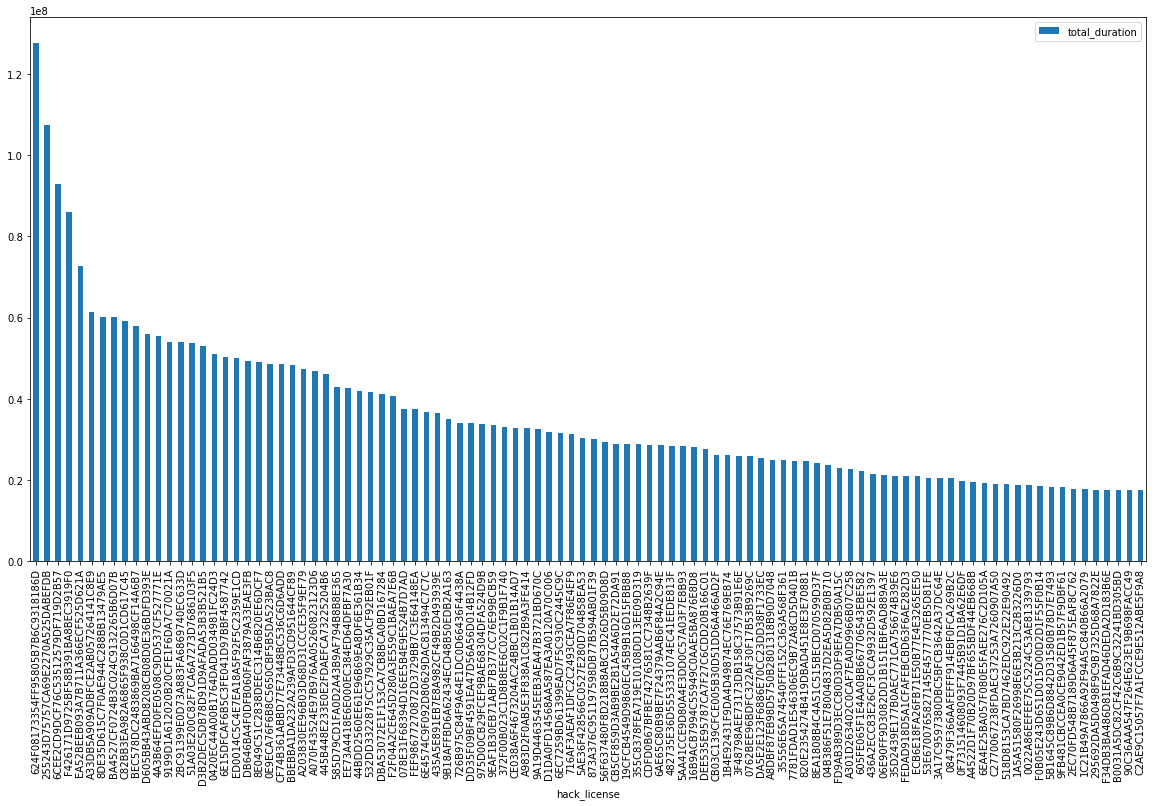
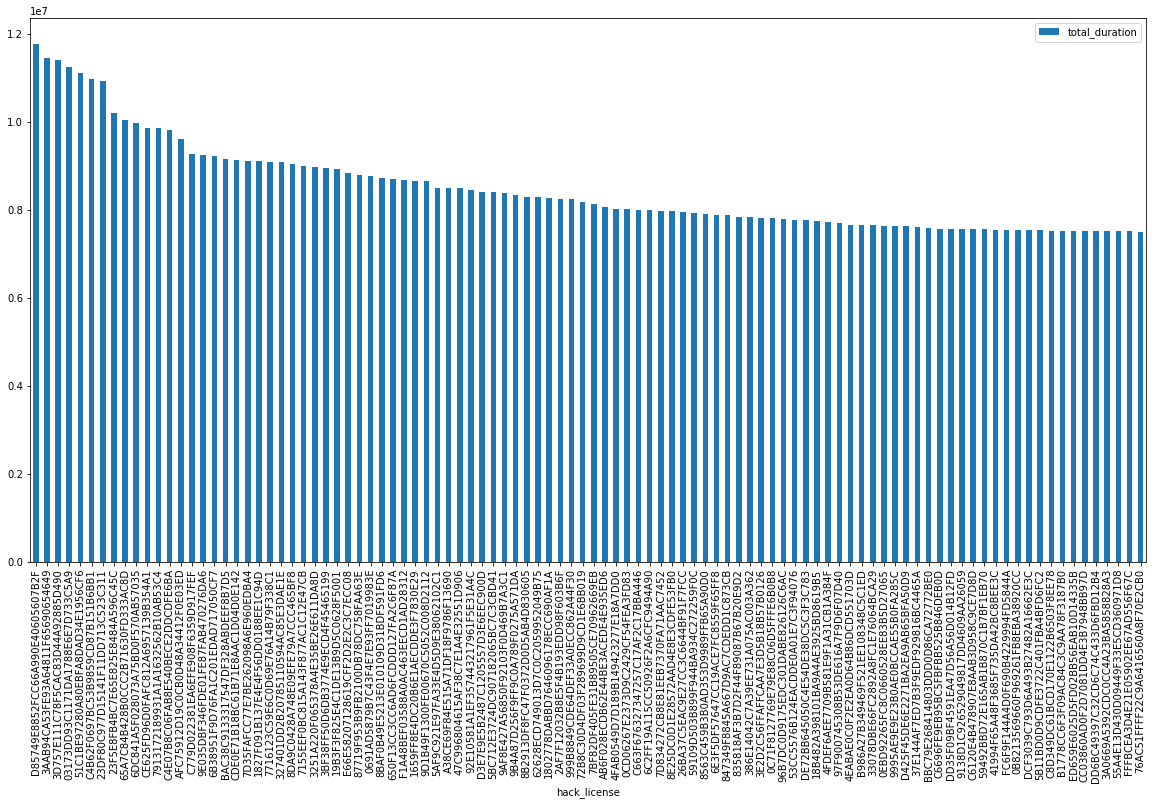
Progress on README, added efficiencies to analysis

diff --git a/README.md b/README.md
@@ -6,6 +6,20 @@ YellowSpark is a project for a Big Data Analytics class at HES-SO Master. The pr
 
 We will also use boundaries for the NYC boroughs available [here](https://nycdatastables.s3.amazonaws.com/2013-08-19T18:15:35.172Z/nyc-borough-boundaries-polygon.geojson) as GeoJSON data.
 
+![](assets/heatmap.png)
+
+## Downloading the data
+
+You can download all the necessary data using `wget`.
+
+```sh
+wget https://nycdatastables.s3.amazonaws.com/2013-08-19T18:15:35.172Z/nyc-borough-boundaries-polygon.geojson
+wget https://archive.org/download/nycTaxiTripData2013/trip_data.7z
+wget https://archive.org/download/nycTaxiTripData2013/trip_fare.7z
+```
+
+Then you can extract the `.7z` files to get the 12 files contained in each of them.
+
 ## Dataset description
 
 The dataset consists of New York City taxi rides data from the year 2013. It is separated by month. For each month, two files are available: the `trip_data` and the `trip_fare`. The two files contains the exact same rides but not the same set of columns. There are duplicated columns between the files that will use to join them. An explanation of the story behind the retrieval of this dataset can be found [here](https://chriswhong.com/open-data/foil_nyc_taxi/).
@@ -85,7 +99,7 @@ We then uploaded the 24 files in a AWS S3 bucket in order to run the processing 
 
 We added some calculated features to our dataset as well. First of all, we don't like ["retard units"](https://en.wikipedia.org/wiki/Imperial_units) so we added a `trip_distance_km` column to have the distance converted to kilometers. Then, we added the `average_speed_kmh` computed from `trip_time_in_secs` and `trip_distance_km`. The speed will used for one of our analysis as well as for filtering out bad data.
 
-Then, we used the boroughs boundaries we had at our disposal and the pickup/dropoff longitude/latitude of the dataset to add `pickup_borough` and `dropoff_borough`. These two columns will also be used for filtering out bad data and one of our analysis.
+Then, we used the boroughs boundaries we had at our disposal and the pickup/dropoff longitude/latitude of the dataset to add `pickup_borough` and `dropoff_borough`. These two columns will also be used for filtering out bad data and one of our analysis. This is done using ESRI Geometry and is extracted from the project PDF.
 
 Finally, for the fares part, we added `taxi_revenue` which is the sum of the fare and the tip for a ride and as such it computes the amount that goes in the driver's pocket for the ride.
 
@@ -140,6 +154,8 @@ Finally, we used the `great_circle_distance_km` column we computed to remove all
 
 In the end, our full year dataset with the data cleaning applied contains 165'163'063 rides. The final cleaned dataset is saved as Parquet on S3 to be later used by our other programs (more on that later).
 
+We should actually spend even more time thinking about data cleaning, as there are a lot of strange rides in the dataset, but it would require a lot of time to filter out those rides as it needs manual oversight and research for these behaviors.
+
 ## Analysis questions
 
 ### Data analysis
@@ -158,20 +174,19 @@ In the plot below, we display the plot of the number of rides per rate code, we 
 
 ![](assets/rate_code_count_log.png)
 
-The data is the following:
+The number of rides is the following:
 
 | rate_code | count     |
 | --------- | --------- |
-| 0         | 25540     |
-| 1         | 162642242 |
-| 2         | 2886818   |
-| 3         | 20635     |
-| 4         | 72013     |
-| 6         | 1683      |
-| 7         | 28        |
-| 8         | 4         |
+| 0         | 25118     |
+| 1         | 162261262 |
+| 2         | 2798053   |
+| 3         | 9389      |
+| 4         | 68387     |
+| 6         | 654       |
+| 7         | 22        |
+| 8         | 2         |
 | 9         | 13        |
-| 10        | 1         |
 | 15        | 1         |
 | 17        | 1         |
 | 28        | 6         |
@@ -183,196 +198,126 @@ The data is the following:
 | 210       | 144       |
 | 221       | 1         |
 
-#### Boroughs analysis
+#### Boroughs analysis by pairs of boroughs
 
-We ran the analysis by the borough of the pickup, dropoff and then by the pickup-dropoff pairs of boroughs.
+##### Number of rides
 
-##### Pickup boroughs
+In the maps below, we can see the number of rides **for the whole year** between pairs of boroughs, we noticed that the majority of the rides are inside Manhattan, or eventually only departing from Manhattan (airports are outside Manhattan). Staten Island is the most remote borough and as such it contains the least amount of rides.
 
-##### Dropoff boroughs
+![](assets/maps1.png)
+![](assets/maps2.png)
+![](assets/maps3.png)
+![](assets/maps4.png)
+![](assets/maps5.png)
 
-##### Pairs of boroughs
+##### Average tip
+
+Above, we see that Staten Island has the least rides because it's really far from the rest, but they got the back of their drivers by providing the most tips on average to compensate for the long ride. This can also be a factor of the price of the ride. In general, trips starting in Bronx amount to the smallest average tips, this may be correlated to the the fact that people are in general poorer in the Bronx.
+
+![](assets/pairs_tips.png)
 
 ##### Wait times by last borough
+
+We sessionised the rides of every taxi driver in order to find the wait time between two rides. By computing the averages and displaying them, we can have an idea of where drivers should wait to find a new ride. We see that if you end in Manhattan, you will find a new ride in less that 10 minutes more or less. The worst borough to end in is Staten Island, as it will take more or less 50 minutes to find a new ride, because it will often involve going back to Manhattan before finding one.
+
+![](assets/borough_wait.png)
 
 #### Dates and time analysis
 
 ##### Number of rides
 
+By displaying the number of rides per day of year, we notice a repeating pattern, with an increase over perhaps a week and then it goes back then at the end of that. We can also see that we have way less rides in an area a bit after the middle of the year. We will dive into this with the next graphs.
+
+![](assets/year_rides_count.png)
+
+By looking at the number of rides per month, we see a reflection of the dip in rides, it is located in August. We see a general trend of taking less rides in the summer months.
+
+![](assets/months_rides_count.png)
+
+As far as the week trend we noticed earlier, it is reflected in the number of rides per week day, we see an increase in the number of rides on Friday and Saturday (6 and 7), so the trend is over a week but with weeks starting on Sunday.
+
+![](assets/day_rides_count.png)
+
+Finally, we can look at the number of rides by hour of the day. People tend to take a cab more in the evening to go out and "less" during the day, we can see that of course during the day it decrease but there are still more or less 2'000'000 rides taking place around 5am during the year. NYC is the city that never sleeps.
+
+![](assets/hour_rides_count.png)
+
 ##### Average tip amount
 
-##### Average revenue
+But hopefully the drivers for these 5am rides will be rewarded with generous tips? Well yes…at least people taking cabs during the night show their gratitude to the drivers.
 
-##### Average trip duration
-
-##### Average distance
+![](assets/hour_rides_tips.png)
 
 #### Top drivers
 
-We found 42750 unique drivers in the dataset (unique hack licenses).
+We found 42528 unique drivers in the dataset (unique hack licenses), in this section we will look at the evolution of the 100 best drivers in different metrics.
 
 ##### Most revenue
 
+We notice a slowing decrease in the revenue per driver in the top 100. The top driver in terms of revenue has accumulated 230'000 $ in one year.
+
 ![](assets/driver_total_revenue.png)
 
-| hack_license                     | total_revenue |
-| -------------------------------- | ------------- |
-| 1EDF99EE9DAC182027330EF48828B54A | 232833.64     |
-| D85749E8852FCC66A990E40605607B2F | 217306.57     |
-| 3AAB94CA53FE93A64811F65690654649 | 203246.73     |
-| 51C1BE97280A80EBFA8DAD34E1956CF6 | 198731.73     |
-| 23DF80C977D15141F11DD713C523C311 | 193650.41     |
-| 3D757E111C78F5CAC83D44A92885D490 | 191687.20     |
-| C4B62F0697BC53B9859CD87B151B6BB1 | 186191.71     |
-| 23F5E8FB4BC7E65E825E8484A596C45C | 180852.82     |
-| AFC75912D19C0CB0D48A34412F0E03ED | 179400.75     |
-| 03173DD93C1171DA1788E6E7D733C5A9 | 178889.01     |
-| 6DC841A5F028073A75BD0F570AB57035 | 177695.73     |
-| C4E07B8C06FAB8E540BECE2DDCDFE6BA | 175640.29     |
-| CE625FD96D0FAFC812A6957139B354A1 | 170847.82     |
-| 65A7C84B428B0CCC2B71630FD333AC8D | 169315.45     |
-| 3251A220F065378A4E35BE26E611DA8D | 167144.60     |
-| C779D022381EA6EFE908F6359D917FEF | 166976.32     |
-| 9D1B49F1300FE00670C5052C008D2112 | 166937.46     |
-| E66E58207128619CFF2D2E2C3C7ECC08 | 164550.29     |
-| 7716123C59E6C0D69E76A14B79F338C1 | 161080.20     |
-| 7913172189931A1A1632562B10AB53C4 | 160795.84     |
-
-##### Most tips
-
-![](assets/driver_total_tips.png)
-
-| hack_license                     | total_tips |
-| -------------------------------- | ---------- |
-| D85749E8852FCC66A990E40605607B2F | 20951.57   |
-| 51C1BE97280A80EBFA8DAD34E1956CF6 | 20562.23   |
-| 3AAB94CA53FE93A64811F65690654649 | 20341.73   |
-| AFC75912D19C0CB0D48A34412F0E03ED | 19090.75   |
-| 23DF80C977D15141F11DD713C523C311 | 18408.41   |
-| 23F5E8FB4BC7E65E825E8484A596C45C | 17963.82   |
-| C4E07B8C06FAB8E540BECE2DDCDFE6BA | 17950.29   |
-| C4B62F0697BC53B9859CD87B151B6BB1 | 17876.11   |
-| 3D757E111C78F5CAC83D44A92885D490 | 17715.70   |
-| 65A7C84B428B0CCC2B71630FD333AC8D | 17489.97   |
-| 6DC841A5F028073A75BD0F570AB57035 | 16947.73   |
-| 3251A220F065378A4E35BE26E611DA8D | 16692.10   |
-| CE625FD96D0FAFC812A6957139B354A1 | 16171.82   |
-| 9D1B49F1300FE00670C5052C008D2112 | 16126.96   |
-| 7716123C59E6C0D69E76A14B79F338C1 | 16002.70   |
-| 92E10581A1EF357443217961F5E31A4C | 15990.62   |
-| CDE0E71B18BC61B71E8AAC1D04D0E142 | 15900.56   |
-| 6C2FF19A115CC50926F2A6CFC9494A90 | 15849.58   |
-| 7913172189931A1A1632562B10AB53C4 | 15808.84   |
-| C779D022381EA6EFE908F6359D917FEF | 15693.82   |
-
 ##### Most distance
+
+We notice a less slowing decrease in the distance per drivers in the top 100. The top driver in terms of distance has driven for 77'000 km in one year.
 
 ![](assets/driver_total_distance.png)
 
-| hack_license                     | total_distance_km |
-| -------------------------------- | ----------------- |
-| D85749E8852FCC66A990E40605607B2F | 76392.102840      |
-| 3AAB94CA53FE93A64811F65690654649 | 69162.834906      |
-| 8C1D318CCC75B91ACBFC789715922449 | 67259.307554      |
-| 51C1BE97280A80EBFA8DAD34E1956CF6 | 65834.848533      |
-| AFC75912D19C0CB0D48A34412F0E03ED | 65127.897658      |
-| 23DF80C977D15141F11DD713C523C311 | 62359.832858      |
-| 23F5E8FB4BC7E65E825E8484A596C45C | 62332.055650      |
-| 6C2FF19A115CC50926F2A6CFC9494A90 | 62319.534984      |
-| 6DC841A5F028073A75BD0F570AB57035 | 62190.787784      |
-| C4B62F0697BC53B9859CD87B151B6BB1 | 62084.474784      |
-| 970978A9CF1C59F8DC462176E305EFCD | 62042.519290      |
-| 3251A220F065378A4E35BE26E611DA8D | 61513.464859      |
-| 3D757E111C78F5CAC83D44A92885D490 | 61237.961944      |
-| 5114DF85775775ED4F53235D8478E80B | 60927.954780      |
-| 9D1B49F1300FE00670C5052C008D2112 | 60924.092364      |
-| C4E07B8C06FAB8E540BECE2DDCDFE6BA | 59159.499334      |
-| C779D022381EA6EFE908F6359D917FEF | 58413.248376      |
-| 5305DE3681B59EC2CD720C3DD8CBFFBC | 57366.469266      |
-| E66E58207128619CFF2D2E2C3C7ECC08 | 56977.234294      |
-| 1E94B13BB698BC3C98178429C45FDEED | 56808.253594      |
-
-##### Most rides
-
-![](assets/driver_total_count.png)
-
-| hack_license                     | count |
-| -------------------------------- | ----- |
-| 51C1BE97280A80EBFA8DAD34E1956CF6 | 17119 |
-| D85749E8852FCC66A990E40605607B2F | 16454 |
-| 3D757E111C78F5CAC83D44A92885D490 | 15950 |
-| 23DF80C977D15141F11DD713C523C311 | 15946 |
-| 03173DD93C1171DA1788E6E7D733C5A9 | 15720 |
-| 3AAB94CA53FE93A64811F65690654649 | 15033 |
-| CE625FD96D0FAFC812A6957139B354A1 | 14298 |
-| 23F5E8FB4BC7E65E825E8484A596C45C | 13953 |
-| C4B62F0697BC53B9859CD87B151B6BB1 | 13859 |
-| BAC38C9133317547DF328ABDEEF8B7D5 | 13781 |
-| 65A7C84B428B0CCC2B71630FD333AC8D | 13575 |
-| 9E035DBF346FDE01FE87FAB470276DA6 | 13314 |
-| C4E07B8C06FAB8E540BECE2DDCDFE6BA | 13309 |
-| 6DC841A5F028073A75BD0F570AB57035 | 13259 |
-| E66E58207128619CFF2D2E2C3C7ECC08 | 13162 |
-| 1802778DABBD7646096178ECC690AF1A | 13125 |
-| 9D1B49F1300FE00670C5052C008D2112 | 12991 |
-| 7913172189931A1A1632562B10AB53C4 | 12837 |
-| 3578782ABD6492CEB927B2A8EBCF1402 | 12745 |
-| 6B38951F9D76FA1C201EDAD717050CF7 | 12704 |
-
 ##### Most trip duration
+
+Here, the top driver in terms of time spent on rides has spent the equivalent of 136 days on rides, that is 9 hours per day on rides on average.
 
 ![](assets/driver_total_duration.png)
 
-| hack_license                     | total_duration |
-| -------------------------------- | -------------- |
-| 624F08173354FF95805B7B6C9318186D | 127661229      |
-| 255243D75757CA69E2270A525DABEFDB | 107419820      |
-| 6CEE2CD9DCF76C53512579DF719D2B57 | 92906387       |
-| F426171D9725BF58B391BA8BEC3919F0 | 86008631       |
-| EA52BEEB093A7B711A366ECF525D621A | 72746400       |
-| A33DB5A909ADBFCE2AB057264141C8E9 | 61314328       |
-| 8DE35D615C7F0AE944C288BB13479AE5 | 60226484       |
-| BA4527CF0724B3C024C9132265B6D07B | 60105814       |
-| C82BB3EA982A6865F938C0D1CD617C45 | 59120500       |
-| BEC578DC2483869BA7166498CF14A6B7 | 57997689       |
-| D605BB43ABD8208CB08D0E36BDFD393E | 55939541       |
-| 4A3B64EFD0FE0508C9DD537CF527771E | 55417935       |
-| 9199D1A612020B20CFE1F6DA7C70021A | 54025498       |
-| 2BC91399E0D73A883FA6869740EC633D | 53864653       |
-| 51A03E200C82F7CA6A7273D7686103F5 | 53735470       |
-| D3B2DEC5DB78D91D9AFADA53B3B521B5 | 52921779       |
-| 0420EC44A00B1764DADD034981FC24D3 | 51048364       |
-| 6E15DFCAF6B5C3FE041D97BBF4587742 | 50205294       |
-| ED0014C5C4E7EA18A5F92F5C2359E1CD | 50086096       |
-| DB646BA4F0DFB060FAF3879A33EAE3FB | 49287599       |
+##### Most time efficiency
 
-#### Top medallions (taxi cars)
+Now, when looking at time efficiency we can find some strange things. The top driver here is making more or less 2.50 $ **PER SECOND** spent on rides. That's a nice job but how is that even possible? He may only paid to wait on very expensive rate codes.
 
-##### Most distance
+![](assets/driver_time_efficiency.png)
 
-##### Most rides
+##### Most distance efficiency
 
-##### Most passengers
+Same thing here, the most efficient driver in terms of distance is making 250 $ **PER KM**. Again, he may be on special rate codes?
 
-##### Most trip duration
+![](assets/driver_distance_efficiency.png)
 
 #### Distances analysis
 
-#### Speeds analysis
+Finally, we look at the number of rides for each distance value, on the x axis we have the floor of the kilometer distance for the ride. The y axis uses a logarithmic scale, we see a steady logaritmic decrease more or less in the number of rides as the distance increases. Rides above 100 km may be bad data that we should filter but we can't say for sure.
 
-#### Costs analysis
+![](assets/distance_rides_log.png)
 
 ### Machine Learning
 
 #### Linear regression model for fare calculation
 
+We trained a linear regression for the 4 main rate codes in order to estimate the formula used to compute fares. To do this, we took the full dataset, filtered for the rate code and then split into training and test sets. The features we used to train were the distance and the duration of the trip and we wanted to predict the fare amount.
+
+We can see that for rate codes 1 and 2 we have respectable Mean Squared Errors values. In the case of rate code, this means that we can predict the cost with +/- 1.30 \$. For rate code 2, currently, it is a fixed rate of 52 \$. We can notice a similarity with the 50.818 we found as the base fare.
+
+| Rate Code | MSE (Mean Squared Error) | Formula                                  |
+| --------- | ------------------------ | ---------------------------------------- |
+| 1         | 1.804926                 | 0.006 * seconds  + 1.201   * km + 2.095  |
+| 2         | 4.070359                 | 0.000 * seconds  + 0.039   * km + 50.818 |
+| 3         | 56.277111                | 0.003 * seconds  + 1.371   * km + 20.203 |
+| 4         | 16.970909                | 0.004 * seconds  + 1.642   * km + 2.047  |
+
+We can look at the plots for rate code 2 to see that it matches well:
+
+![](assets/rate_2_linear_model.png)
+
+And for rate code 3 to see that it matches well:
+
+![](assets/rate_3_linear_model.png)
+
 #### Regression model for trip duration prediction
 
-## Algorithms
+##### Feature extraction
 
-#### Borough detection UDF
+![](assets/hour_week_standard.png)
 
-#### Feature extraction for training trip duration model
+![](assets/hour_week_sinus.png)
 
 ## Optimisations
 
